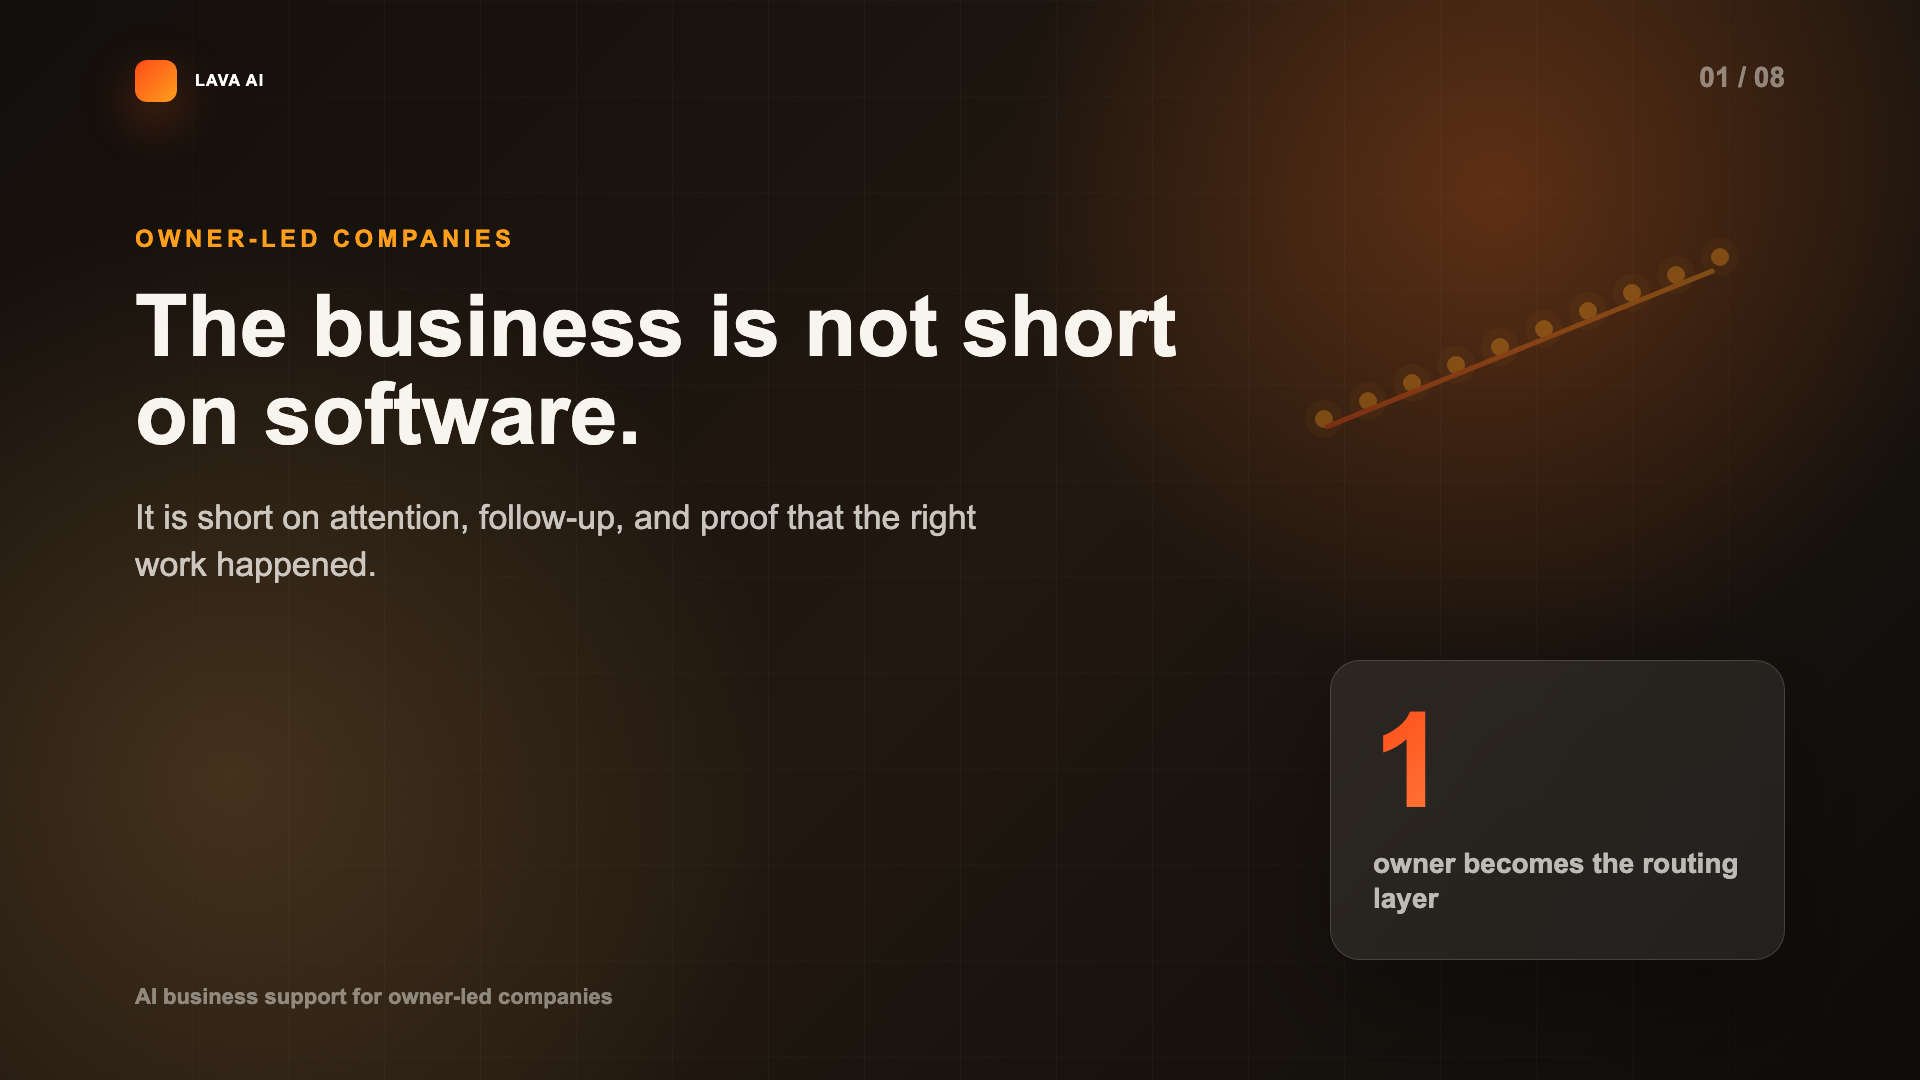
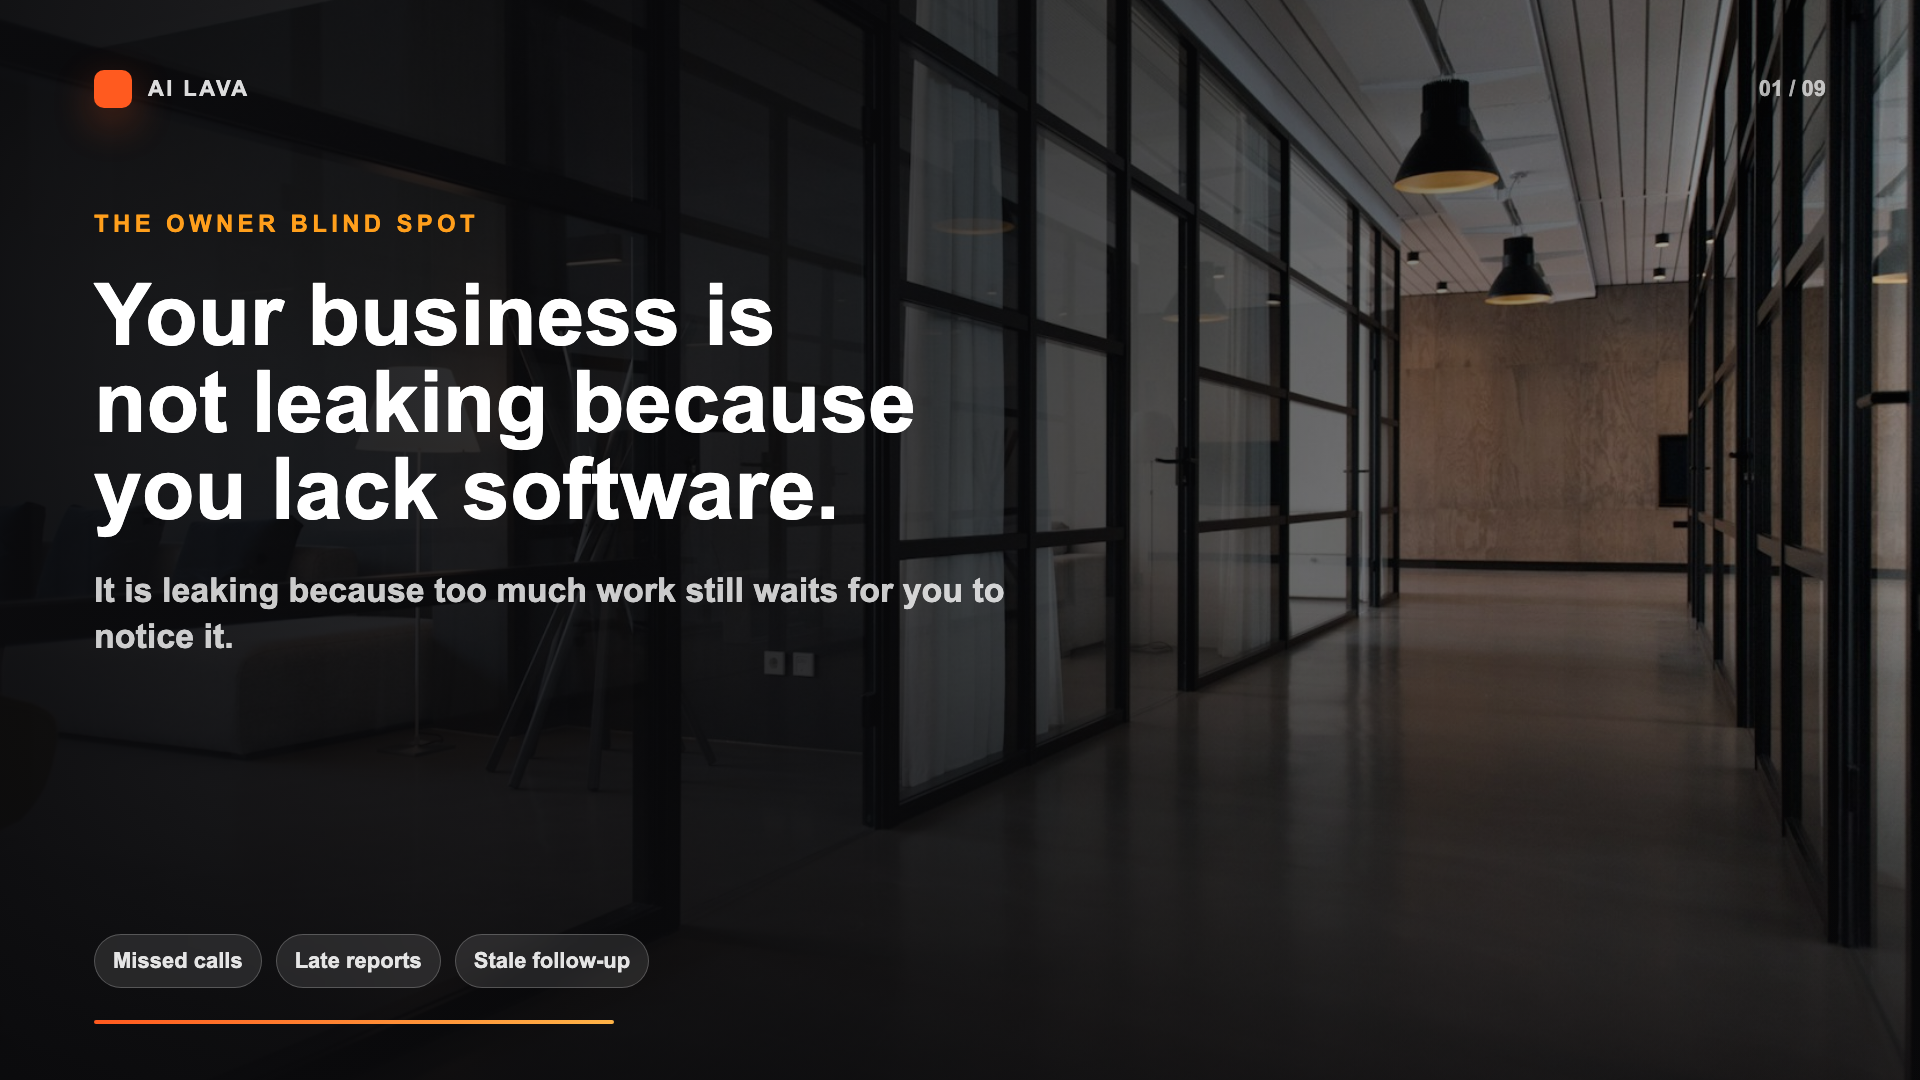
Replace video with owner blind spot audit

diff --git a/index.html b/index.html
@@ -166,14 +166,14 @@
 <section class="video-showcase" id="video">
   <div class="container">
     <div class="section-header reveal">
-      <h2>The Owner Bottleneck, <span class="gradient-text">Explained</span></h2>
-      <p>A short operator insight on why growing companies need an AI support layer before they need another dashboard.</p>
+      <h2>The Owner Blind Spot <span class="gradient-text">Audit</span></h2>
+      <p>A tighter NotebookLM-backed operator insight on where owner-led companies leak money, time, and follow-through before the dashboard catches it.</p>
     </div>
     <div class="video-player reveal scale-in">
       <div class="video-glow"></div>
       <div class="video-frame">
-        <video id="showcaseVideo" controls playsinline poster="lava-owner-operator-insight-poster.png?v=680ed55">
-          <source src="lava-owner-operator-insight.mp4?v=680ed55" type="video/mp4">
+        <video id="showcaseVideo" controls playsinline poster="lava-owner-operator-insight-poster.png?v=nlm-1781892702251">
+          <source src="lava-owner-operator-insight.mp4?v=nlm-1781892702251" type="video/mp4">
         </video>
         <div class="video-play-overlay" id="videoOverlay">
           <div class="play-btn-ring"><div class="play-btn-inner">▶</div></div>
@@ -184,18 +184,18 @@
     <div class="video-takeaways reveal">
       <article>
         <span>01</span>
-        <h3>Why Owners Stall</h3>
-        <p>Too many decisions, approvals, exceptions, and reminders route through one person.</p>
+        <h3>Where Owners Leak</h3>
+        <p>Missed calls, stale quotes, late approvals, weak handoffs, and quiet margin drift wait for someone to notice.</p>
       </article>
       <article>
         <span>02</span>
-        <h3>Where Money Leaks</h3>
-        <p>Stale leads, aging invoices, late reporting, and customer friction hide between systems.</p>
+        <h3>Why It Matters</h3>
+        <p>The company has signals everywhere. The expensive gap is turning those signals into action before revenue is lost.</p>
       </article>
       <article>
         <span>03</span>
         <h3>What Lava Installs</h3>
-        <p>A daily support layer that watches signals, drafts next moves, and closes accountability loops.</p>
+        <p>A daily owner action layer: what changed, what matters, who owns it, what is blocked, and what proof exists.</p>
       </article>
     </div>
     <div class="video-cta reveal">